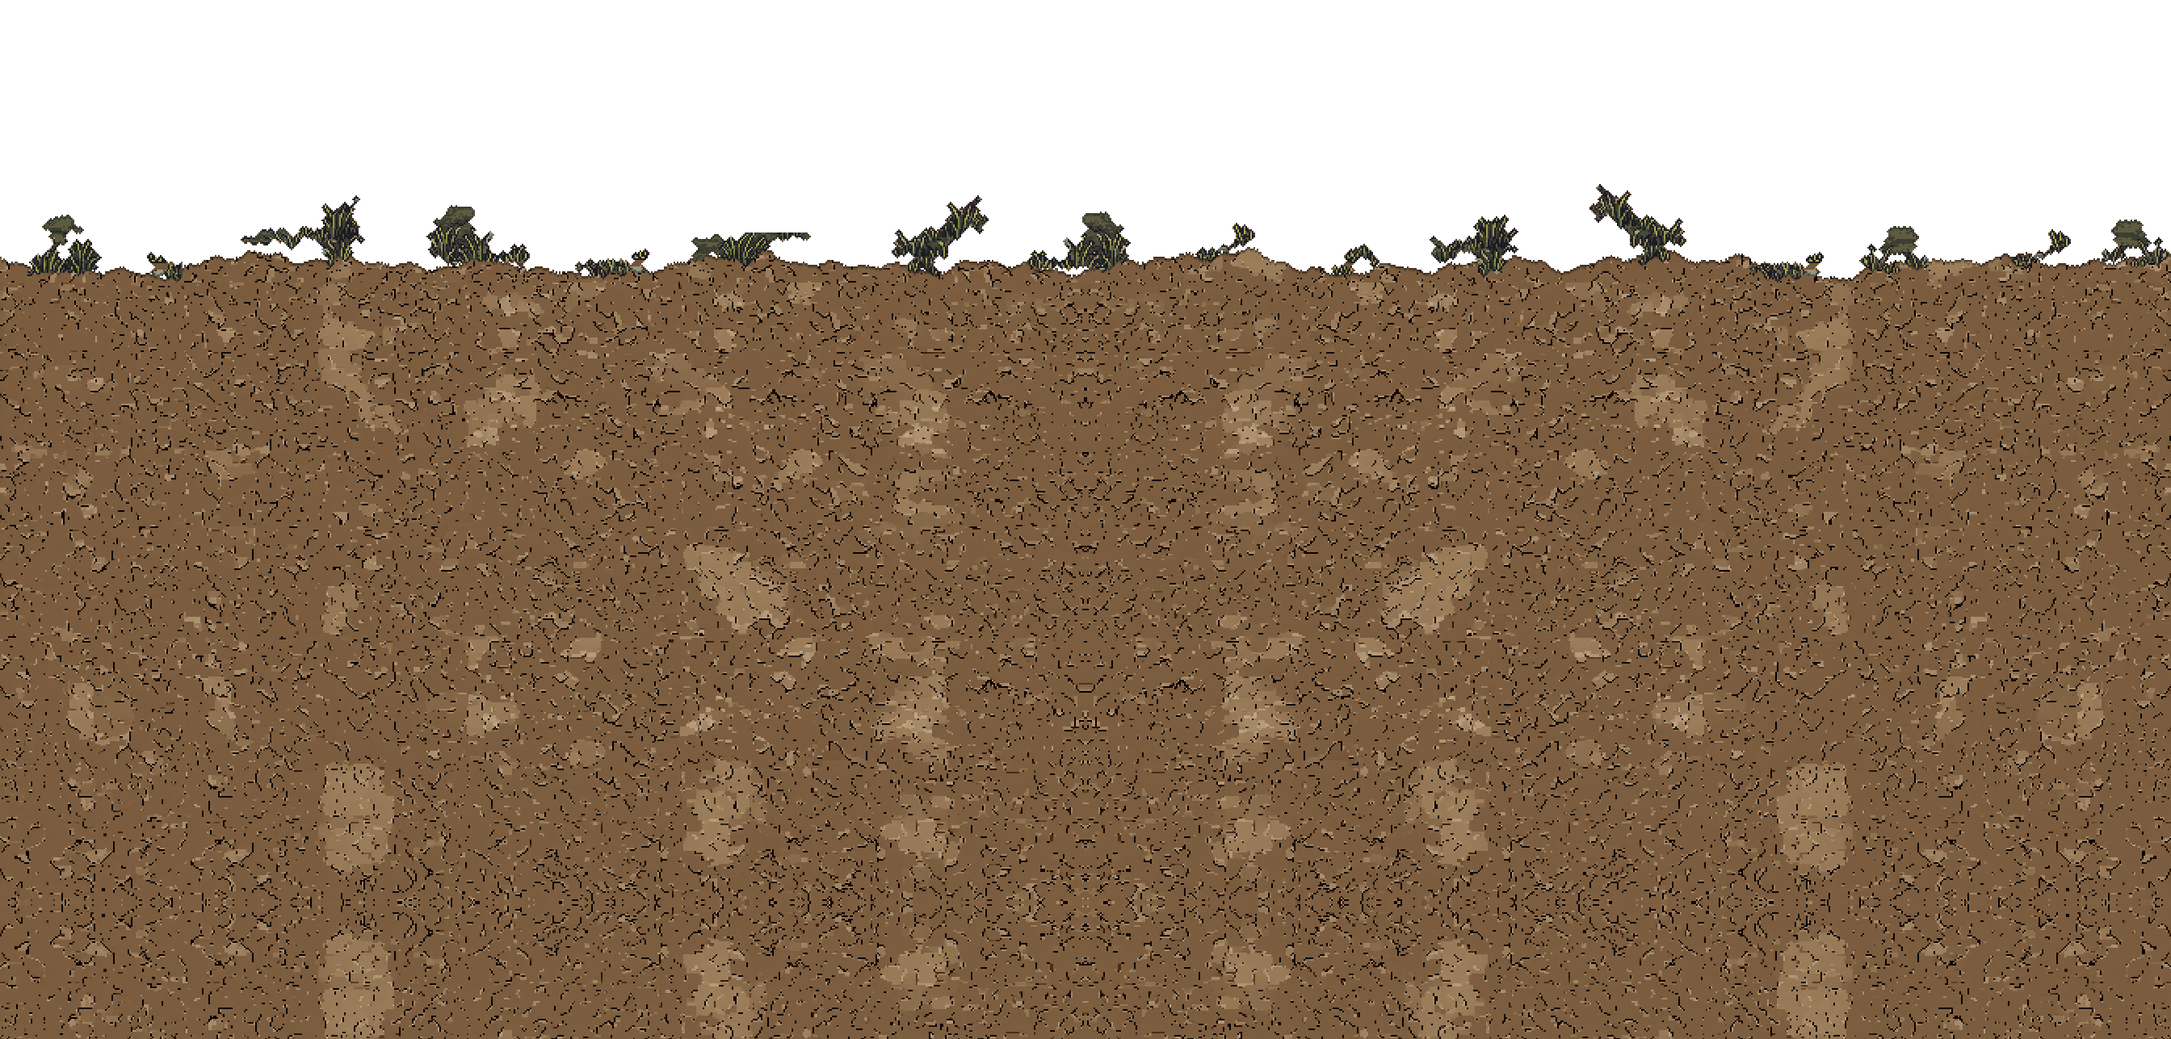
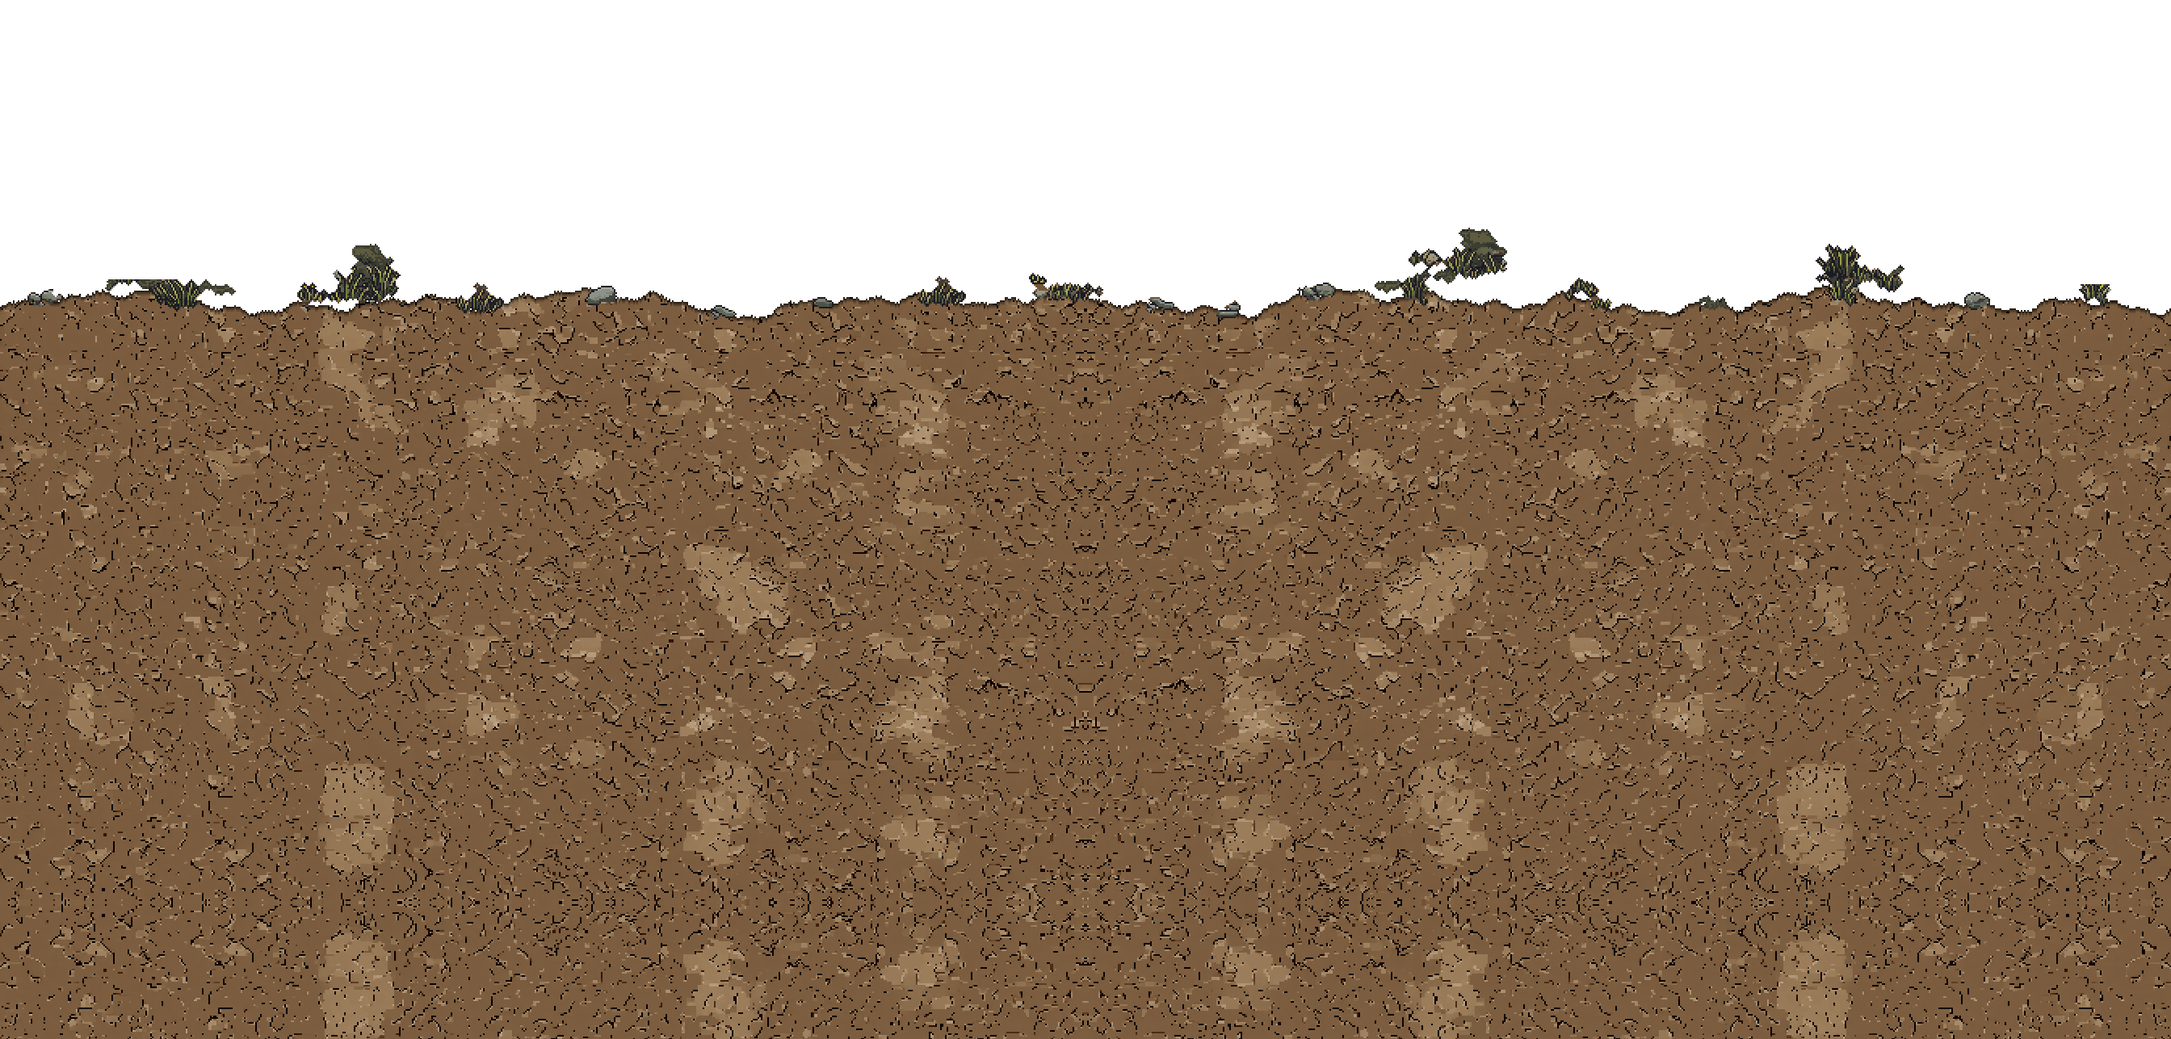
T12: edge cut into the ground, hero walks along it; lip strength and element density options
Claude-Session: https://claude.ai/code/session_016fDmF6h8Cvboqsnb59nvij

Changed region(s): [[0.0, 0.1865, 1.0, 0.3108]]

diff --git a/KDE_JE_CO.html b/KDE_JE_CO.html
@@ -259,7 +259,7 @@ var TODOS = [
   {id:"T11", g:"teba", k:"Na tvojom PC", t:"<b>Poslať zmeny na GitHub</b>: v priečinku hry napíš <code>git push</code>. Z cloudu sa neviem prihlásiť, commity už čakajú.", s:"stav gitu 5. 10."},
   {id:"T20", g:"teba", k:"Na tvojom PC", t:"<b>Vyčistiť históriu GitHubu</b> od starých 3D súborov. V priečinku hry spusti <code>python tools\\github_cistenie.py</code> a na konci napíš ANO. Skript sám spraví zálohu a overí, že projekt ostane rovnaký. Trvá niekoľko minút.", s:"PRIKAZY.md, tools/github_cistenie.py"},
   {id:"T21", g:"teba", k:"Po 12. 10.", t:"<b>Zmazať zálohu <code>slavs_zaloha_…</code></b> v D:\\2026 (v Prieskumníku). Je to poistka po čistení GitHubu, po týždni bez problémov už netreba. Priečinok <code>slavs_cisty_…</code> sa maže hneď.", s:"T20, tools/github_cistenie.py"},
-  {id:"T12", g:"claude", k:"Priorita", t:"<b>Horný okraj chodnej zeme</b> — HOTOVÉ na GitHube 2026-10-06, čaká na test na telefóne: nerovný lem so trsmi trávy a machu (chodná dráha sa nezmenila).", s:"CLAUDE.md Otvorené 3a"},
+  {id:"T12", g:"claude", k:"Priorita", t:"<b>Horný okraj chodnej zeme</b> — HOTOVÉ lokálne 2026-10-06, čaká na výber variantov a test na telefóne: nerovný stmavený okraj s trsmi a kameňmi, hráč chodí podľa neho.", s:"CLAUDE.md Otvorené 3a"},
   {id:"T16", g:"claude", k:"Oprava", t:"<b>Bežec bliká po švihu</b>, keď sa hráč pohne hore alebo dole. Pavel: asi to vyrieši T24 (zámok pri útoku). Stále bliká.", s:"CLAUDE.md Otvorené 5"},
   {id:"T17", g:"claude", k:"Dôležité", t:"<b>Zjednotiť farebnú paletu</b> pozadia, nepriateľov a predmetov. Musí byť vyriešené PRED generovaním finálnej hernej grafiky; pri prototypoch nemusí.", s:"CLAUDE.md Otvorené 6, pamäť"},
   {id:"T22", g:"claude", k:"Práca", t:"<b>Nepriatelia s pevným telom</b>: cez nich sa nedá prejsť (ani oni cez seba), ako pri sude. Pri veľkom počte sa zablokujú a nebudú sa kopiť do jednej kopy; treba dať pozor na zaseknutie.", s:"Pavel 6. 10."},

diff --git a/tools/bake_ground_edge.py b/tools/bake_ground_edge.py
@@ -2,113 +2,180 @@
 Slavs - T12: natural top edge for the walkable ground (pixen A).
 
 The ground picture used to start on one straight row (IMG_TOP = 350), so the dirt met
-the forest in a ruled line. This bakes an irregular verge ABOVE that row:
+the forest in a ruled line. This bakes an irregular edge INTO the picture:
 
-  * the dirt is extended upward by a smooth-but-uneven profile (4..44 px, art-pixel steps),
-    filled with the dirt's own texture mirrored across row 350 (no new colours),
-  * the outermost art pixel of the verge is darkened (outline rule: ring from the body
-    colour, x0.55) so it reads against the forest,
-  * grass+moss tufts from art/ground_objects.png (kind "tuft") sit on the edge.
-
-Rows >= IMG_TOP keep their pixels (except the dark lip, which is only on the new verge),
-so the walk limit does not change: ground_pixen_a_top.json stays at 350 and the hero
-still walks exactly one screen of ground. The verge is scenery behind his feet.
+  * the top of the dirt is cut into an uneven silhouette: the edge of each art-pixel
+    column lies between IMG_TOP and IMG_TOP + 2*MAX_D px (so the walkable ground is never
+    taller than one screen),
+  * the outermost rows of the edge (and its steep sides) are darkened - outline rule,
+    colour from the body, not black. Three strengths, --lip 1|2|3,
+  * grass+moss tufts and stones from art/ground_objects.png sit on the edge, three
+    amounts, --density few|mid|many,
+  * ground_pixen_a_top.json = the new edge row per picture column, so the hero walks
+    along the edge (main.gd already reads it; set_dynamic_top in player.gd).
 
 Idempotent: the first run saves the straight picture to ref/ground_pixen_a_straight.png
-(local only, not in git) and every later run starts from that copy.
+(local only, not in git); every later run starts from that copy.
 
-    python tools/bake_ground_edge.py
+    python tools/bake_ground_edge.py --preview      # writes 2 contact sheets, changes nothing
+    python tools/bake_ground_edge.py --lip 2 --density mid --apply
 """
 
+import argparse
 import json
 import os
 import shutil
 
 import numpy as np
-from PIL import Image
+from PIL import Image, ImageDraw
 
 ROOT = os.path.dirname(os.path.dirname(os.path.abspath(__file__)))
 ART = os.path.join(ROOT, "slavs", "art")
 GROUND = os.path.join(ART, "ground_pixen_a.png")
+TOPJSON = os.path.join(ART, "ground_pixen_a_top.json")
 STRAIGHT = os.path.join(ROOT, "ref", "ground_pixen_a_straight.png")
-IMG_TOP = 350            # first ground row (art_px aligned: even)
+SKY = os.path.join(ART, "env_07_sky.png")
+OUTDIR = os.path.join(ROOT, "Claude outputs")
+IMG_TOP = 350            # first ground row of the straight picture (even)
 S = 2                    # art pixel -> picture pixel
-MIN_H, MAX_H = 2, 22     # verge height range, art px
+MIN_D, MAX_D = 1, 22     # how far the edge sits below IMG_TOP, art px
 SEED = 12
-TUFT_EVERY = (22, 60)    # art px between tufts (random range)
-LIP = 0.55               # darkening of the outermost verge pixel
+
+# darkening, multiplier per art-pixel row counted from the outermost one
+LIPS = {1: [0.55, 0.8],
+        2: [0.38, 0.62, 0.85],
+        3: [0.22, 0.45, 0.70, 0.88]}
+# (spacing range between elements in art px, probability that an element is a stone)
+DENSITY = {"few": ((45, 120), 0.35), "mid": ((22, 60), 0.35), "many": ((10, 30), 0.35)}
 
 
 def periodic_noise(n, rng, waves):
-    """Smooth, seamlessly wrapping noise in 0..1 as a sum of cosines."""
+    """Smooth, seamlessly wrapping noise normalised to 0..1 (sum of cosines)."""
     x = np.arange(n) / n
     v = np.zeros(n)
-    tot = 0.0
     for k, amp in waves:
-        ph = rng.uniform(0, 2 * np.pi)
-        v += amp * np.cos(2 * np.pi * k * x + ph)
-        tot += amp
-    v = (v / tot + 1.0) / 2.0
+        v += amp * np.cos(2 * np.pi * k * x + rng.uniform(0, 2 * np.pi))
     return (v - v.min()) / (v.max() - v.min())
 
 
-def main():
-    if not os.path.exists(STRAIGHT):
-        os.makedirs(os.path.dirname(STRAIGHT), exist_ok=True)
-        shutil.copyfile(GROUND, STRAIGHT)
+def load_sprites():
+    atlas = Image.open(os.path.join(ART, "ground_objects.png")).convert("RGBA")
+    rects = json.load(open(os.path.join(ART, "ground_objects.json")))
+    out = {"tuft": [], "stone": []}
+    for r in rects:
+        kind = "tuft" if r["k"] == "tuft" else ("stone" if r["k"] == "stone" else None)
+        if kind is None:
+            continue
+        t = atlas.crop((r["x"], r["y"], r["x"] + r["w"], r["y"] + r["h"]))
+        out[kind].append(t.resize((t.width * S, t.height * S), Image.NEAREST))
+    return out
+
+
+def build(lip, density, seed=SEED):
+    """Return (PIL picture, edge row per picture column as a list)."""
     img = np.array(Image.open(STRAIGHT).convert("RGBA"))
     H, W = img.shape[:2]
     assert (img[:IMG_TOP, :, 3] == 0).all() and (img[IMG_TOP, :, 3] == 255).all()
-    rng = np.random.default_rng(SEED)
-    na = W // S                                    # art columns (1344)
-
-    # edge height per art column, in art px
-    prof = (periodic_noise(na, rng, [(5, 1.0), (9, 0.8), (17, 0.6), (31, 0.5), (67, 0.35)]))
-    prof = MIN_H + prof * (MAX_H - MIN_H)
-    prof = np.round(prof + rng.integers(-1, 2, na) * 0.6).clip(MIN_H, MAX_H).astype(int)
+    rng = np.random.default_rng(seed)
+    na = W // S
+    prof = periodic_noise(na, rng, [(5, 1.0), (9, 0.8), (17, 0.6), (31, 0.5), (67, 0.35)])
+    d = np.round(MIN_D + prof * (MAX_D - MIN_D) + rng.integers(-1, 2, na) * 0.6)
+    d = d.clip(MIN_D, MAX_D).astype(int)
+    edge = IMG_TOP + d * S                       # first opaque row per art column
 
     out = img.copy()
-    top_row = np.full(na, IMG_TOP, dtype=int)
+    mult = LIPS[lip]
     for c in range(na):
-        h = prof[c] * S
         x0, x1 = c * S, c * S + S
-        for j in range(1, h + 1):                   # j-th row above IMG_TOP
-            src = IMG_TOP + 40 + (j - 1)            # dirt from 40 px lower, shifted sideways:
-            sx = (x0 + 700) % W                     # no mirror symmetry along the edge
-            out[IMG_TOP - j, x0:x1] = img[src, sx:sx + S]
-        top_row[c] = IMG_TOP - h
-        # dark lip: outermost art pixel row of the column
-        lip_rows = slice(IMG_TOP - h, IMG_TOP - h + S)
-        out[lip_rows, x0:x1, :3] = (out[lip_rows, x0:x1, :3] * LIP).astype(np.uint8)
-        # a second, lighter-darkened row under the lip sells the roundness
-        r2 = slice(IMG_TOP - h + S, IMG_TOP - h + 2 * S)
-        out[r2, x0:x1, :3] = (out[r2, x0:x1, :3] * 0.8).astype(np.uint8)
+        e = edge[c]
+        out[IMG_TOP:e, x0:x1, 3] = 0             # cut the dirt away above the edge
+        # steep sides: rows next to a neighbouring column that starts lower are outline too
+        side_end = max(edge[(c - 1) % na], edge[(c + 1) % na])
+        for k, m in enumerate(mult):             # rows from the top of the column
+            r0, r1 = e + k * S, e + (k + 1) * S
+            out[r0:r1, x0:x1, :3] = (out[r0:r1, x0:x1, :3] * m).astype(np.uint8)
+        if side_end > e + S:
+            r0, r1 = e + S * 1, min(side_end, e + S * 6)
+            if r1 > r0:
+                out[r0:r1, x0:x1, :3] = np.minimum(
+                    out[r0:r1, x0:x1, :3],
+                    (img[r0:r1, x0:x1, :3] * mult[0]).astype(np.uint8))
 
-    # grass + moss tufts standing on the edge
-    atlas = Image.open(os.path.join(ART, "ground_objects.png")).convert("RGBA")
-    rects = [r for r in json.load(open(os.path.join(ART, "ground_objects.json"))) if r["k"] == "tuft"]
-    tufts = []
-    for r in rects:
-        t = atlas.crop((r["x"], r["y"], r["x"] + r["w"], r["y"] + r["h"]))
-        tufts.append(t.resize((t.width * S, t.height * S), Image.NEAREST))
+    # tufts and stones standing on the edge
+    sprites = load_sprites()
+    (lo, hi), p_stone = DENSITY[density]
     pic = Image.fromarray(out)
     c = int(rng.integers(0, 20))
-    placed = 0
-    while c < na - 8:
-        t = tufts[int(rng.integers(0, len(tufts)))]
+    n_t = n_s = 0
+    while c < na - 12:
+        stone = rng.random() < p_stone
+        pool = sprites["stone" if stone else "tuft"]
+        t = pool[int(rng.integers(0, len(pool)))]
         if rng.random() < 0.5:
             t = t.transpose(Image.FLIP_LEFT_RIGHT)
         tw = t.width // S
         cc = min(c, na - tw)
-        base = int(top_row[cc:cc + tw].max() + 2 * S)   # lowest edge point of its span: base always in dirt
+        lowest = int(edge[cc:cc + tw].max())
+        base = lowest + (S * 3 if stone else S)   # stones half sunk, tufts rooted in the dirt
+        if stone:
+            base = min(base, int(edge[cc:cc + tw].min()) + t.height - S)
+            base = max(base, lowest + S)
         pic.alpha_composite(t, (cc * S, base - t.height))
-        placed += 1
-        c += tw + int(rng.integers(*TUFT_EVERY))
-    # wrap: copy the first 2*MAXtuft columns' overhang is not needed - tufts stay inside 0..W
-    pic.save(GROUND, optimize=True)
-    json.dump([IMG_TOP] * W, open(os.path.join(ART, "ground_pixen_a_top.json"), "w"))
-    print("verge h(art px) min/mean/max:", prof.min(), round(prof.mean(), 1), prof.max(),
-          "| tufts:", placed, "| top edge row min:", int(top_row.min()))
+        n_s += stone
+        n_t += not stone
+        c += tw + int(rng.integers(lo, hi))
+    top = [int(edge[x // S]) for x in range(W)]
+    print("lip", lip, "density", density, "| edge depth art px mean %.1f" % d.mean(),
+          "| tufts", n_t, "stones", n_s)
+    return pic, top
+
+
+def composite(pic, x0=0, w=1280, y0=240, h=200):
+    """The picture over the real forest layer (same placement as main.gd BG_LAYERS)."""
+    sky = Image.open(SKY).convert("RGBA")
+    canvas = Image.new("RGBA", (w, 1000), (0, 0, 0, 255))
+    layer = Image.new("RGBA", canvas.size, (0, 0, 0, 0))
+    layer.paste(sky.crop((x0, 0, x0 + w, sky.height)), (0, -606))
+    canvas = Image.alpha_composite(canvas, layer)
+    layer = Image.new("RGBA", canvas.size, (0, 0, 0, 0))
+    layer.paste(pic.crop((x0, 0, x0 + w, pic.height)), (0, 0))
+    canvas = Image.alpha_composite(canvas, layer)
+    return canvas.crop((0, y0, w, y0 + h)).convert("RGB")
+
+
+def sheet(panels, path):
+    w, h = panels[0][1].size
+    im = Image.new("RGB", (w, (h + 4) * len(panels)), (255, 0, 255))
+    d = ImageDraw.Draw(im)
+    for i, (label, p) in enumerate(panels):
+        im.paste(p, (0, i * (h + 4)))
+        d.rectangle((0, i * (h + 4), 150, i * (h + 4) + 14), fill=(0, 0, 0))
+        d.text((3, i * (h + 4) + 2), label, fill=(255, 255, 255))
+    im.save(path)
+
+
+def main():
+    ap = argparse.ArgumentParser()
+    ap.add_argument("--lip", type=int, default=2, choices=[1, 2, 3])
+    ap.add_argument("--density", default="mid", choices=list(DENSITY))
+    ap.add_argument("--apply", action="store_true")
+    ap.add_argument("--preview", action="store_true")
+    a = ap.parse_args()
+    if not os.path.exists(STRAIGHT):
+        os.makedirs(os.path.dirname(STRAIGHT), exist_ok=True)
+        shutil.copyfile(GROUND, STRAIGHT)
+    if a.preview:
+        os.makedirs(OUTDIR, exist_ok=True)
+        names = {1: "1 slabsie (terajsie)", 2: "2 silnejsie", 3: "3 najsilnejsie"}
+        sheet([(names[l], composite(build(l, "mid")[0])) for l in (1, 2, 3)],
+              os.path.join(OUTDIR, "t12_stmavenie.png"))
+        sheet([(d + " prvkov", composite(build(2, d)[0])) for d in ("few", "mid", "many")],
+              os.path.join(OUTDIR, "t12_mnozstvo.png"))
+    if a.apply:
+        pic, top = build(a.lip, a.density)
+        pic.save(GROUND, optimize=True)
+        json.dump(top, open(TOPJSON, "w"))
+        print("applied: top curve rows", min(top), "..", max(top))
 
 
 if __name__ == "__main__":

diff --git a/CLAUDE.md b/CLAUDE.md
@@ -183,7 +183,7 @@ shared state.** Rules for switching:
 1. [T01] **Graphics for the ground are DONE (Pavel 2026-10-05): pixen A + walk-through objects** (he tried 100, would take more; tune count/placement/QUALITY later and approve before the final version). Other grounds removed (B had borders; D/E/F/burned village had a repeating "checkerboard" pattern - **watch for repeating patterns in every future ground**).
 2. [T03] **Scene camera (2026-10-05; TESTED OK on device 2026-10-06, Pavel: "funguje presne ako som si predstavoval").** One rule for walking AND frozen screens: walkable ground = exactly one screen tall (`Tuning.SCENE_FIELD_HEIGHT` 720 from picture row `SCENE_GROUND_ROW` 350) with the dynamic top strip above it, about one hero tall (`scene_strip_height` 190, panel slider). Vertical scroll is allowed only between "strip gone" (down) and "hero's head at the top edge" (up). Frozen screens (panel button "CELA OBRAZOVKA HLINA", boss/cage fights) differ ONLY by locking horizontal scroll - same vertical logic and game logic as walking (Pavel 2026-10-06). The strip on top is extra height only so the whole hero body stays on screen at the back edge; the real playing area is exactly one screen. Pavel's fallback if the screen feels small: shrink the characters slightly (enemies maybe a bit large). The lock itself (the game locks horizontal scroll at certain places) is agreed and gets built together with bosses and cages, not as a separate task [T13 closed 2026-10-06]. Scene B / burned village was only a graphics test, NOT a decided second scene; number and content of scenes are not decided [T14 deleted].
 3. [T02] **DONE 2026-10-06 - hero no longer slides during the axe throw:** `THROW_MOVE_FACTOR` = 0 (cannot walk while throwing; a feature: pick the moment) and `THROW_WINDUP_SPEED` = 3.0 (picked by Pavel on device, baked in `tuning.gd`, sliders stay in the panel). Idea: start the game at a lower wind-up speed (1.0) and let the hero level it up. Later weapons (spells) will need an attack animation tied to movement; the axe is fine as is. No new PixelLab clip needed.
-3a. [T12] **DONE 2026-10-06 (art only), waiting for Pavel's device test:** the top edge of `ground_pixen_a.png` was a ruled line at picture row 350. `tools/bake_ground_edge.py` now adds an irregular verge ABOVE row 350 (4-44 px, art-pixel steps, dirt texture from 40 px lower shifted sideways, dark lip, 16 grass/moss tufts from `ground_objects.png`). Walk limit unchanged (`ground_pixen_a_top.json` stays 350 = exactly one screen of ground; the verge is scenery behind the hero's feet). Source of the straight picture: `ref/ground_pixen_a_straight.png` (local only; the script is idempotent and starts from it). If `bake_pixen_grounds.py` is rerun, rerun the edge script after it and delete the straight copy first.
+3a. [T12] **DONE 2026-10-06 (art + walk limit), waiting for Pavel's device test and his pick of variants:** the top edge of `ground_pixen_a.png` was a ruled line at picture row 350. `tools/bake_ground_edge.py` now cuts an irregular edge into the dirt (0-44 px below row 350, so the field is never taller than one screen), darkens it (`--lip 1|2|3`, now 2) and sets tufts + stones on it (`--density few|mid|many`, now mid). `ground_pixen_a_top.json` is the per-column edge row, so the hero walks along the edge (existing `set_dynamic_top`). Pavel (2026-10-06): tufts look badly planted (maybe the art of tufts/stones is just weak - revisit them for the final art), wants some stones among them, and looks at 3 darkness / 3 amount variants (`Claude outputs/t12_*.png`; `python tools/bake_ground_edge.py --preview`). Straight source: `ref/ground_pixen_a_straight.png` (local only; script is idempotent). If `bake_pixen_grounds.py` is rerun, delete the straight copy and rerun the edge script after it.
 3b. [T05] **DONE 2026-10-05: enemies left behind off-screen are no longer recycled** (Pavel: they must keep existing and chase at their own speed). `ENEMY_CULL_BEHIND` 900 -> 4000 (pool safety only); enemies farther than `ENEMY_COUNT_RANGE` (2200) do not count against `ENEMY_MAX_ALIVE`. Check on device that running ahead and coming back finds them.
 4. [T15 closed, T22-T24] **Melee on 2.5D (Pavel 2026-10-06):** overlapping rushers is acceptable ("funny"). Planned: solid enemy bodies like barrels, nothing passes through them (T22); lock an enemy in place when a swing starts, same as the hero throw, later better enemies get attack-while-moving clips (T24; code already zeroes velocity while attacking since 2026-08-13 - find out why it still flickers/slides); idea for later: enemies path around the hero and can surround him (T23, decide later).
 5. [T16] **Rusher flicker after a swing** when the player moved on Y - still happens; Pavel expects T24 to fix it. Original note: walk clip toggling on near-zero X velocity - look at `_drive_sprite`.

diff --git a/KDE_JE_CO.md b/KDE_JE_CO.md
@@ -24,7 +24,7 @@ T20 HOTOVÉ 2026-10-05: história GitHubu vyčistená od starých 3D súborov (`
 T21 Po 2026-10-12: zmazať zálohu `slavs_zaloha_...` v D:\2026 (Pavel, v Prieskumníku). Priečinok `slavs_cisty_...` sa maže hneď. [T20]
 
 ### Čaká na Claude (po OK od Pavla)
-T12 HOTOVÉ NA GITHUBE 2026-10-06, ČAKÁ NA TEST NA TELEFÓNE: horný okraj zeme má nerovný lem (až ~44 px) s trsmi trávy a machu; chodná dráha sa nezmenila. Ak sa Pavlovi nepáči, upraví sa `tools/bake_ground_edge.py` (výška/počet trsov). [Open 3a]
+T12 HOTOVÉ NA GITHUBE 2026-10-06, ČAKÁ NA TEST NA TELEFÓNE: horný okraj zeme je nerovný (zarezaný do zeme až 44 px), stmavený, s trsmi a kameňmi; hráč chodí podľa neho. Pavel vyberie variant stmavenia (1-3) a množstva prvkov (few/mid/many), potom `python tools/bake_ground_edge.py --lip N --density X --apply`. [Open 3a]
 T13 ZRUŠENÉ 2026-10-06: mechanika je dohodnutá (hra na určitom mieste zamkne vodorovný scroll). Samotné zamykanie sa naprogramuje spolu s bossmi a klietkami, nie ako samostatná úloha.
 T14 ZMAZANÉ 2026-10-06: počet ani obsah scén nie je určený; vypálená dedina bola len skúška grafiky, nepadlo rozhodnutie, že je druhou scénou.
 T15 UZAVRETÉ 2026-10-06: boj na blízko. Prekrývanie bežcov je prijateľné (Pavel: "je to srandovné, hlavne keď ich je veľa"). Konkrétne zlepšenia sú T22-T24.
